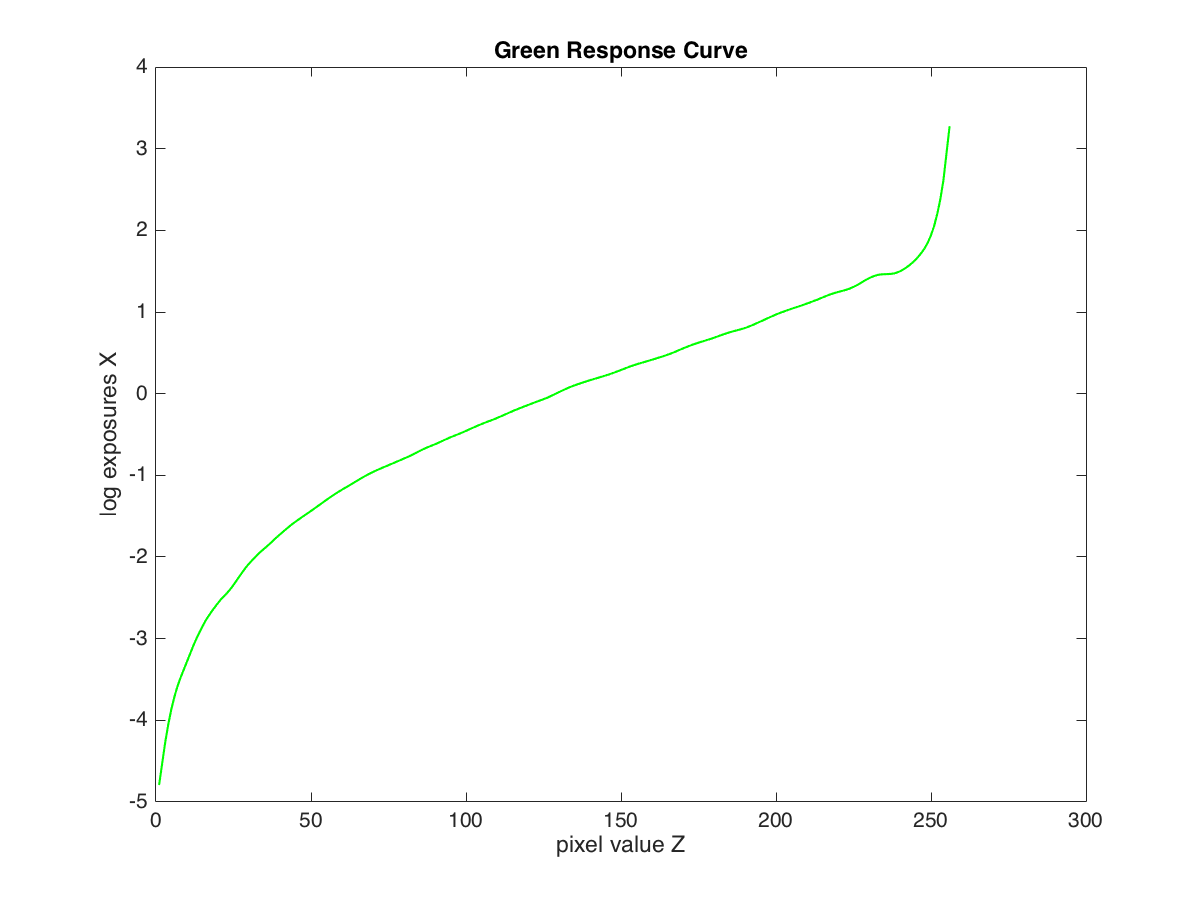
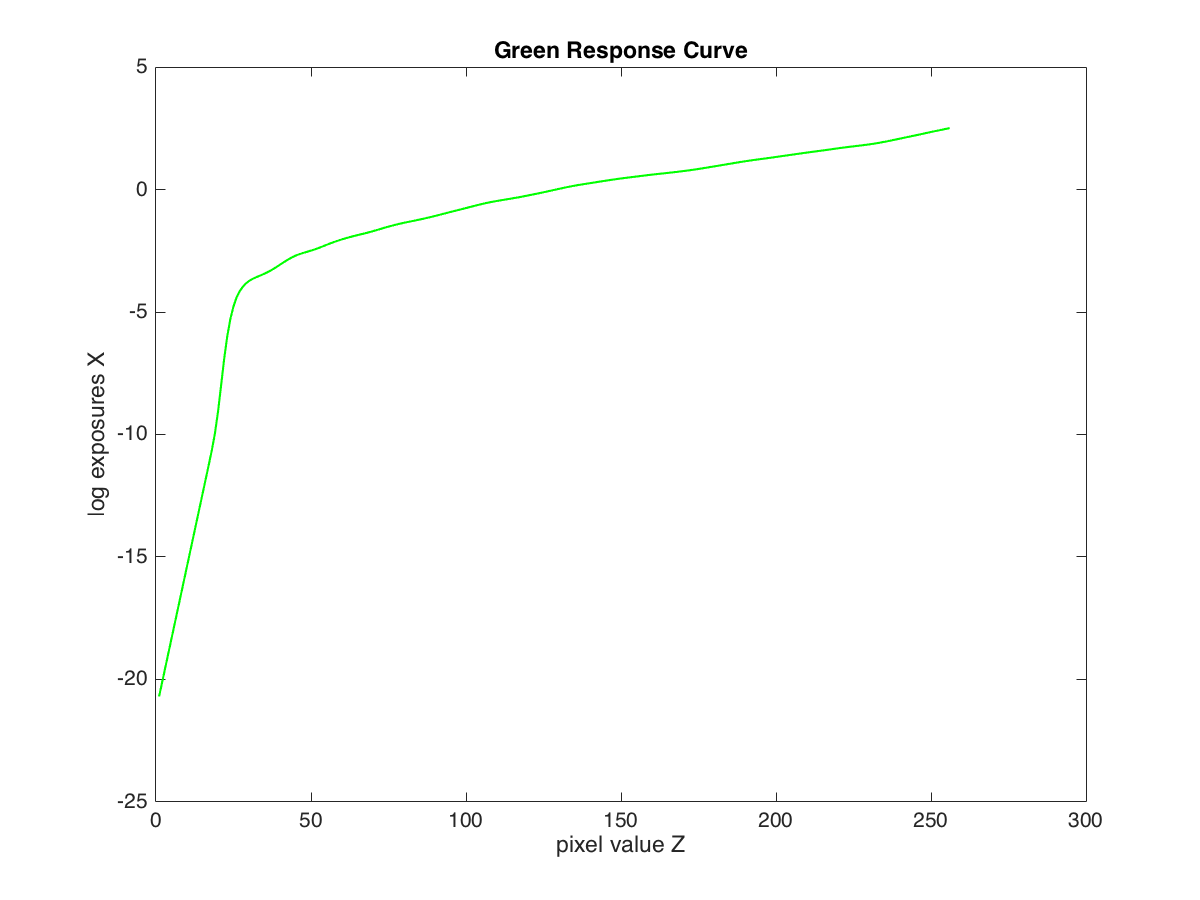
?

diff --git a/HDR_Map.m b/HDR_Map.m
@@ -1,4 +1,4 @@
-function HDR_img = HDR_Map(images, g, lE, ln_t, w, P)
+function HDR_img = HDR_Map(images, g, ln_t, w, P)
     length = size(images{1});
     lE = zeros(length);
     
@@ -12,7 +12,35 @@ function HDR_img = HDR_Map(images, g, lE, ln_t, w, P)
         lE(pixel) = lE(pixel)/sum_w;
     end
     HDR_img = exp(lE);
-    
+    disp(HDR_img);
     index = find(isnan(HDR_img) | isinf(HDR_img));
     HDR_img(index) = 0;
 end
+
+% function imgHDR = hdrDebevec(images, g, ln_t, w)
+%     [row, col, channel, number] = size(images);
+%     ln_E = zeros(row, col, 3);
+%     for channel = 1:3
+% 	for y = 1:row
+% 	    for x = 1:col
+% 		total_lnE = 0;
+% 		totalWeight = 0;
+% 		for j = 1:number
+% 		    tempZ = images(y, x, channel, j) + 1;
+% 		    tempw = w(tempZ);
+% 		    tempg = g(tempZ);
+% 		    templn_t = ln_t(j);
+% 
+% 		    total_lnE = total_lnE + tempw * (tempg - templn_t);
+% 		    totalWeight = totalWeight + tempw;
+% 		end
+% 		ln_E(y, x, channel) = total_lnE / totalWeight;
+% 	    end
+% 	end
+%     end
+%     imgHDR = exp(ln_E);
+% 
+%     % remove NAN or INF
+%     index = find(isnan(imgHDR) | isinf(imgHDR));
+%     imgHDR(index) = 0;
+% end

diff --git a/main.m b/main.m
@@ -1,7 +1,7 @@
 %j = 13;
 j = 16;
 
-lambda = 10;
+lambda = 30;
 Images = {};
 %Exposures = zeros(j,1);
 
@@ -94,6 +94,7 @@ end
 for i = 0:255
     w(i+1) = min(i, 255-i);
 end
+w = w/255;
 
 [R_g, R_lE] = gsolve(Rimage, ln_t, lambda, w);
 [G_g, G_lE] = gsolve(Gimage, ln_t, lambda, w);
@@ -103,11 +104,11 @@ end
 disp('Construct HDR map');
 
 HDR_img = zeros(imgRow, imgCol, 3);
-HDR_img_R = HDR_Map(Red, R_g, R_lE, ln_t, w, j);
+HDR_img_R = HDR_Map(Red, R_g, ln_t, w, j);
 HDR_img(1:imgRow, 1:imgCol, 1) = reshape(HDR_img_R, imgRow, imgCol);
-HDR_img_G = HDR_Map(Green, G_g, G_lE, ln_t, w, j);
+HDR_img_G = HDR_Map(Green, G_g, ln_t, w, j);
 HDR_img(1:imgRow, 1:imgCol, 2) = reshape(HDR_img_G, imgRow, imgCol);
-HDR_img_B = HDR_Map(Blue, B_g, B_lE, ln_t, w, j);
+HDR_img_B = HDR_Map(Blue, B_g, ln_t, w, j);
 HDR_img(1:imgRow, 1:imgCol, 3) = reshape(HDR_img_B, imgRow, imgCol);
 figure, imshow(HDR_img), title('HDR image');
 
